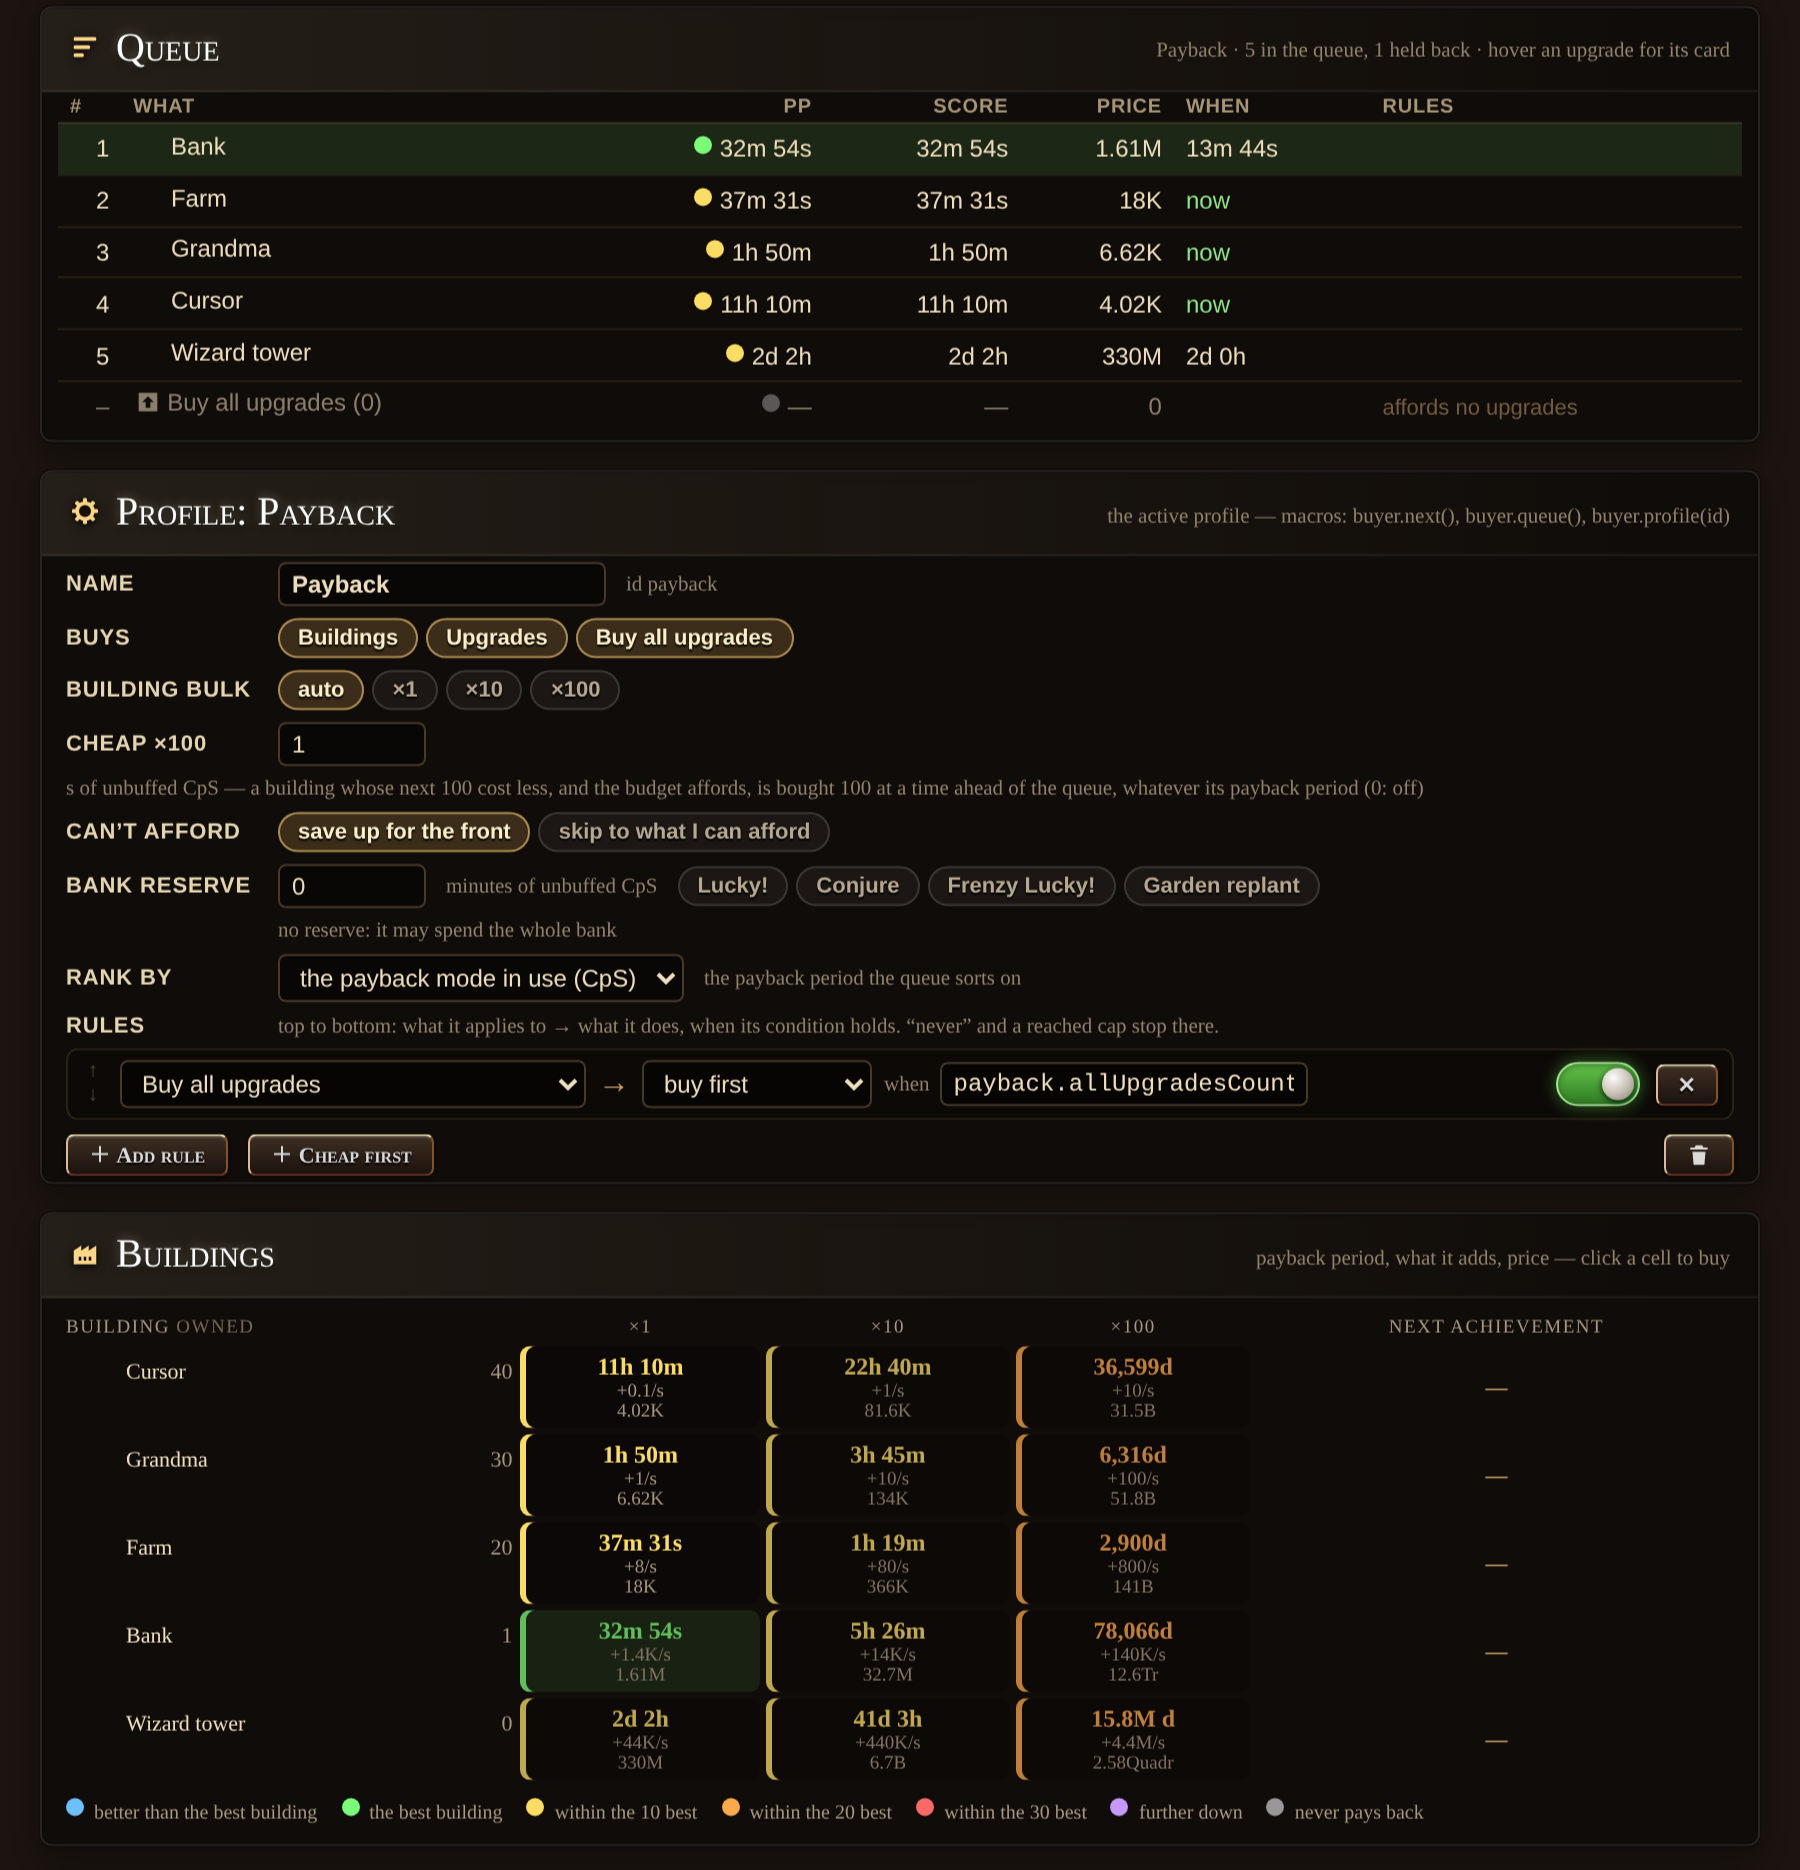
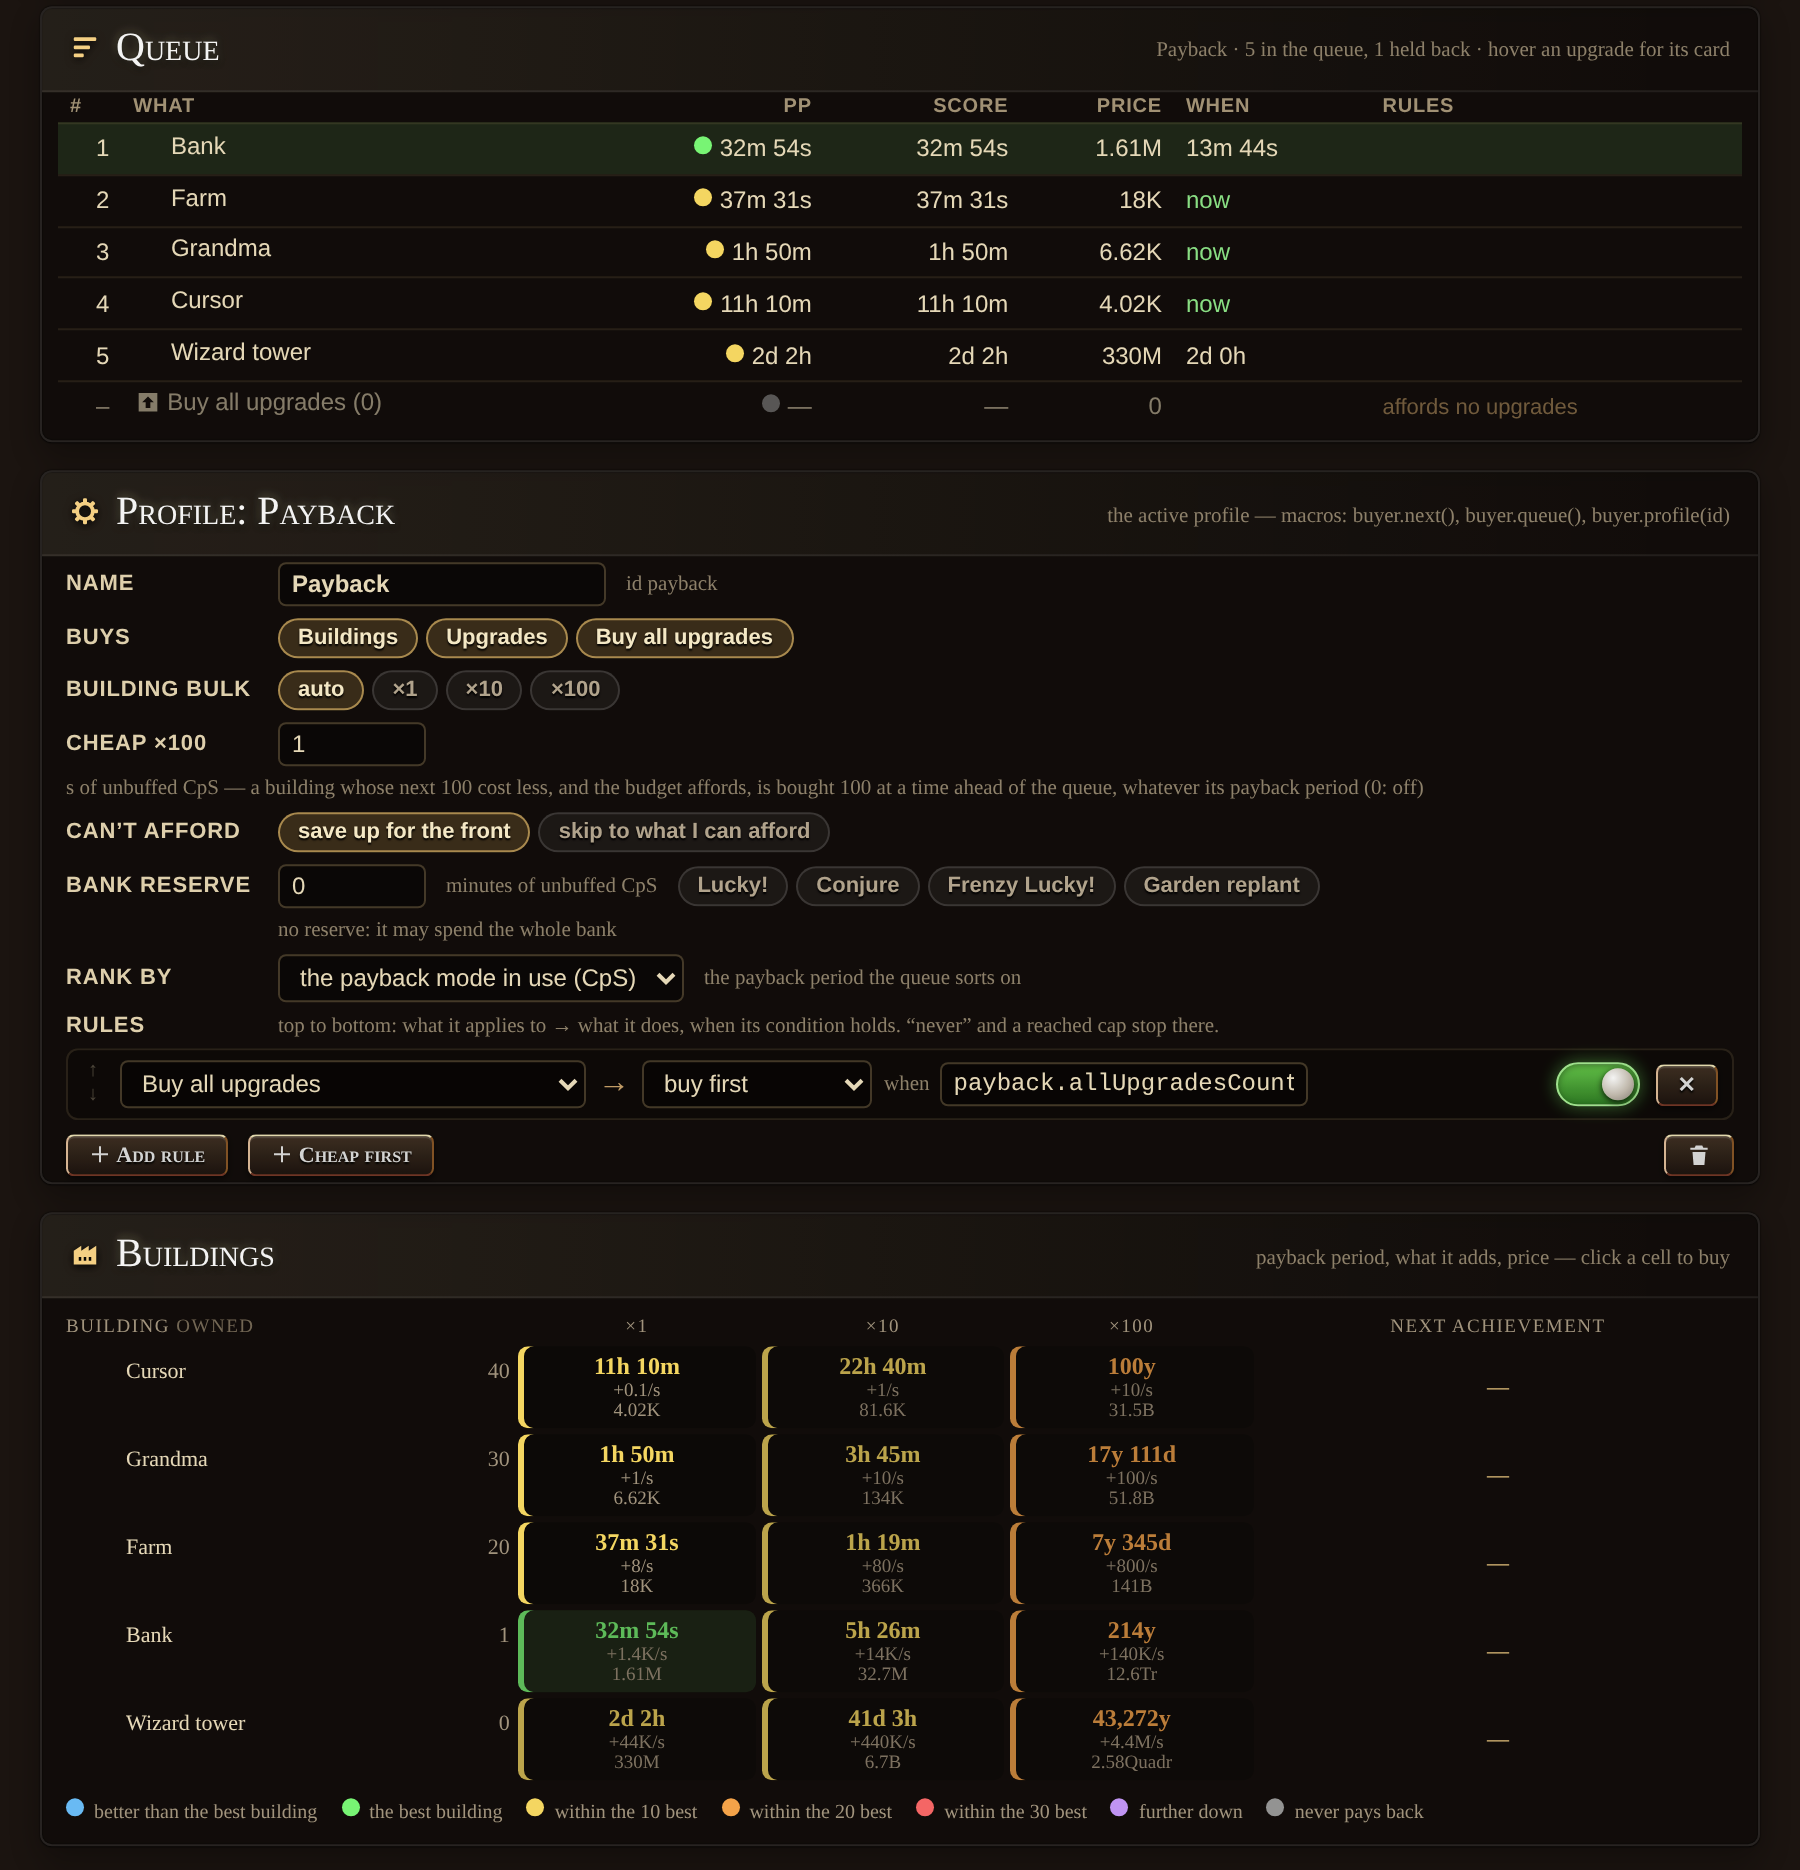
Payback periods: years (y) back, milliseconds (ms) under a second
Claude-Session: https://claude.ai/code/session_01ALSqfu1K68e4PK8DV1Ydm9

diff --git a/src/ui/paybackPage.js b/src/ui/paybackPage.js
@@ -169,7 +169,7 @@ CA.UI.PaybackPage = (() => {
       '<div class="ca-card">' +
       C().cardHead('Options', 'settings') +
       '<div class="ca-list">' +
-      `<div class="ca-row ca-row-option"><span class="ca-row-ico">${I('clock', 16)}</span><div class="ca-row-text"><div class="ca-row-name">Payback periods in</div><div class="ca-row-desc">Time units: seconds, minutes, hours and days, the largest two that apply (45s, 16m 40s, 3h 12m, 2d 5h). Seconds: plain seconds, Cookie Monster’s way (999, 1K).</div></div><span class="ca-pp-chips">${pick('ppUnits')}</span></div>` +
+      `<div class="ca-row ca-row-option"><span class="ca-row-ico">${I('clock', 16)}</span><div class="ca-row-text"><div class="ca-row-name">Payback periods in</div><div class="ca-row-desc">Time units: ms, s, m, h, d and y, the largest two that apply (45s, 16m 40s, 3h 12m, 2d 5h, 1y 23d). Seconds: plain seconds, Cookie Monster’s way (999, 1K).</div></div><span class="ca-pp-chips">${pick('ppUnits')}</span></div>` +
       `<div class="ca-row ca-row-option"><span class="ca-row-ico">${I('wrinkler', 16)}</span><div class="ca-row-text"><div class="ca-row-name">Count wrinklers in the bank</div><div class="ca-row-desc">What popping them would give counts towards affording things.</div></div><span class="ca-pp-chips">${choice('none', 'No')}${choice('all', 'All')}${choice('fattest', 'The fattest')}</span></div>` +
       `<div class="ca-row ca-row-option"><span class="ca-row-ico">${I('graphs', 16)}</span><div class="ca-row-text"><div class="ca-row-name">Actual income over</div><div class="ca-row-desc">The one window for every actual income: the Actual income payback mode, the tooltips’ Income and Payback period by actual income, payback.actualIncome(). Pick a preset or type any number of minutes (up to a day)${Number.isFinite(P().actualRatio()) ? ` — now ×${P().actualRatio().toFixed(2)} your raw CpS` : ''}.</div></div><span class="ca-pp-chips">${actualWindowPick()}</span></div>` +
       `<div class="ca-row ca-row-option"><span class="ca-row-ico">${I('cookie', 16)}</span><div class="ca-row-text"><div class="ca-row-name">Clicks averaged over</div><div class="ca-row-desc">The CpS + clicking mode counts your clicks a second over this much of your latest play — now ${P().clicksOver(Math.max(1, Number(S.get('ppClickWindow')) || 60)).toFixed(1)} a second.</div></div><span class="ca-pp-chips">${pick('ppClickWindow')}</span></div>` +

diff --git a/src/core/format.js b/src/core/format.js
@@ -151,20 +151,26 @@ CA.Format = (() => {
     return `${Math.floor(sec / 86400)}d ${Math.floor((sec % 86400) / 3600)}h`;
   }
 
-  // a payback period in compact time units, the largest two that apply: 45s, 16m 40s, 3h 12m, 2d 5h —
-  // days the largest unit (100d on, days alone: 365d, 12,345d); a zero second part is left out (3h)
+  // a payback period in compact lowercase time units, the largest two that apply: 500ms, 45s, 16m 40s,
+  // 3h 12m, 2d 5h, 1y 23d (100y on, years alone: 345y, 12,345y); a zero second part is left out (3h)
   function inUnits(sec) {
     const pair = (v, unit, sub, n) => `${Math.floor(v / n)}${unit}` + (v % n ? ` ${v % n}${sub}` : '');
-    if (Math.round(sec) < 60) return (sec === 0 ? '0' : sec < 0.001 ? scientific(sec, false) : sec < 10 ? small(sec, 1) : String(Math.round(sec))) + 's';
+    if (sec === 0) return '0s';
+    if (Math.round(sec * 1000) < 1000) {
+      const ms = sec * 1000;
+      return (ms < 0.001 ? scientific(ms, false) : ms < 10 ? small(ms, 1) : String(Math.round(ms))) + 'ms';
+    }
+    if (Math.round(sec) < 60) return (sec < 10 ? small(sec, 1) : String(Math.round(sec))) + 's';
     if (Math.round(sec) < 3600) return pair(Math.round(sec), 'm', 's', 60);
     if (Math.round(sec / 60) < 1440) return pair(Math.round(sec / 60), 'h', 'm', 60);
-    if (Math.round(sec / 3600) < 2400) return pair(Math.round(sec / 3600), 'd', 'h', 24);
-    const d = sec / 86400;
-    return Math.round(d) < 1e6 ? `${grouped(d)}d` : `${short(d)} d`;
+    if (Math.round(sec / 3600) < 365 * 24) return pair(Math.round(sec / 3600), 'd', 'h', 24);
+    if (Math.round(sec / 86400) < 365 * 100) return pair(Math.round(sec / 86400), 'y', 'd', 365);
+    const y = sec / (365 * 86400);
+    return Math.round(y) < 1e6 ? `${grouped(y)}y` : `${short(y)} y`;
   }
   /**
    * A payback period (seconds) as the Payback units setting writes it: time units (the default —
-   * 45s, 16m 40s, 3h 12m, 2d 5h) or plain seconds, short (Cookie Monster's way: 999, 1K); ∞ when it
+   * 45s, 16m 40s, 3h 12m, 2d 5h, 1y 23d) or plain seconds, short (Cookie Monster's way: 999, 1K); ∞ when it
    * never pays back.
    */
   function payback(sec) {

diff --git a/src/features/payback.js b/src/features/payback.js
@@ -854,10 +854,10 @@ CA.Payback = (() => {
       group: 'payback',
       icon: 'clock',
       name: 'Payback periods in',
-      desc: 'How payback periods read, everywhere: in time units (45s, 16m 40s, 3h 12m, 2d 5h — days the largest) or in plain seconds (Cookie Monster’s way: 999, 1K).',
+      desc: 'How payback periods read, everywhere: in time units (500ms, 45s, 16m 40s, 3h 12m, 2d 5h, 1y 23d) or in plain seconds (Cookie Monster’s way: 999, 1K).',
       default: 'time',
       choices: [
-        { v: 'time', label: 'Time units — 45s, 3h 12m, 2d 5h', short: 'time units' },
+        { v: 'time', label: 'Time units — 45s, 3h 12m, 1y 23d', short: 'time units' },
         { v: 'seconds', label: 'Seconds — 999, 1K, 150K', short: 'seconds' },
       ],
     });

diff --git a/docs/GUIDE.md b/docs/GUIDE.md
@@ -383,8 +383,8 @@ follow Cookie Monster's too: blue (better than the best building), green (the be
 back). It's checked against Cookie Monster itself in the real game (the simulator's parity test): every building at
 ×1, ×10 and ×100 and every upgrade in the store, the same to the last digit.
 
-Payback periods read in short time units, the largest two that apply: 45s, 16m 40s, 3h 12m, 2d 5h. Days are the
-largest unit (from 100 days, days alone: 365d). **Payback periods in** (the Payback page's
+Payback periods read in short lowercase time units, the largest two that apply: 500ms, 45s, 16m 40s, 3h 12m, 2d 5h,
+1y 23d (from 100 years, years alone: 345y). **Payback periods in** (the Payback page's
 Options) switches them back to plain seconds, Cookie Monster's way (999, 1K).
 
 **Pet the dragon** gets the dragon's four drops (Dragon scale, claw, fang, teddy bear): each pet has a 1 in 20 chance,

diff --git a/changes/payback-short-units.md b/changes/payback-short-units.md
@@ -2,6 +2,6 @@
 bump: minor
 ---
 
-- **Payback periods in short time units:** the largest two of seconds, minutes, hours and days, wherever a payback
-  period shows (45s, 16m 40s, 3h 12m, 2d 5h). Days are the largest unit: no more years, and from 100 days on, days
-  alone (365d, 12,345d). The plain seconds option is unchanged.
+- **Payback periods in short time units:** the largest two that apply, in lowercase ms, s, m, h, d and y, wherever a
+  payback period shows (500ms, 45s, 16m 40s, 3h 12m, 2d 5h, 1y 23d); from 100 years on, years alone (345y). The plain
+  seconds option is unchanged.
